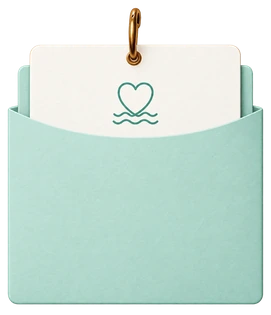
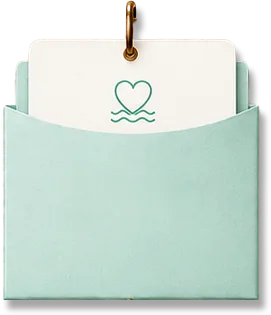
revert: restore env-anxious envelope card to its original image
Same as d968d9c for the 불안해요 card: back to the version from before
930e56c (undoing both that swap and the 1603edf PNG swap), mind-
pharmacy copy included. Ref bumped to ?v=5.

diff --git a/ui_kits/soul-pharmacy/MainScreen.jsx b/ui_kits/soul-pharmacy/MainScreen.jsx
@@ -3,7 +3,7 @@
 // 기존 리스트/제목은 아래로 내려가며 사라진(list-exit) 뒤 onNext로 문진 화면으로 넘어간다.
 function MainScreen({ selected, onSelect, onNext }) {
   const ENVELOPES = [
-    { key: "anxious", img: "assets-web/env-anxious.webp?v=4", label: "불안해요" },
+    { key: "anxious", img: "assets-web/env-anxious.webp?v=5", label: "불안해요" },
     { key: "broken",  img: "assets-web/env-broken.webp?v=4",  label: "마음이\n무너졌어요" },
     { key: "compare", img: "assets-web/env-compare.webp?v=4", label: "비교돼요" },
     { key: "waiting", img: "assets-web/env-waiting.webp?v=4", label: "기다리기\n힘들어요" },

diff --git a/ui_kits/soul-pharmacy/IntroSequence.jsx b/ui_kits/soul-pharmacy/IntroSequence.jsx
@@ -133,7 +133,7 @@ function IntroLoading({ onDone }) {
     let done = false;
     const finish = () => { if (!done) { done = true; setBye(true); setTimeout(() => onDone && onDone(), 460); } };
     const urls = ["assets-web/leaf-tl.webp", "assets-web/leaf-br.webp", "assets-web/wood-bar.webp"];
-    for (const m of MOODS) urls.push("assets-web/env-" + m + ".webp?v=4");
+    for (const m of MOODS) urls.push("assets-web/env-" + m + ".webp?v=5");
     let loaded = 0;
     const check = () => { loaded++; if (loaded >= urls.length) setTimeout(finish, 200); };
     for (const u of urls) { const img = new Image(); img.onload = check; img.onerror = check; img.src = u; }

diff --git a/ui_kits/soul-pharmacy/index.html b/ui_kits/soul-pharmacy/index.html
@@ -50,8 +50,8 @@
   );
 </script>
 <script type="text/babel" src="LogoMark.jsx"></script>
-<script type="text/babel" src="IntroSequence.jsx?v=env4"></script>
-<script type="text/babel" src="MainScreen.jsx?v=env4"></script>
+<script type="text/babel" src="IntroSequence.jsx?v=env5"></script>
+<script type="text/babel" src="MainScreen.jsx?v=env5"></script>
 <script type="text/babel" src="AssessmentScreen.jsx?v=env3"></script>
 <script type="text/babel" src="ResultScreen.jsx?v=scene2"></script>
 <script type="text/babel" src="StickerScreen.jsx?v=guide1"></script>
